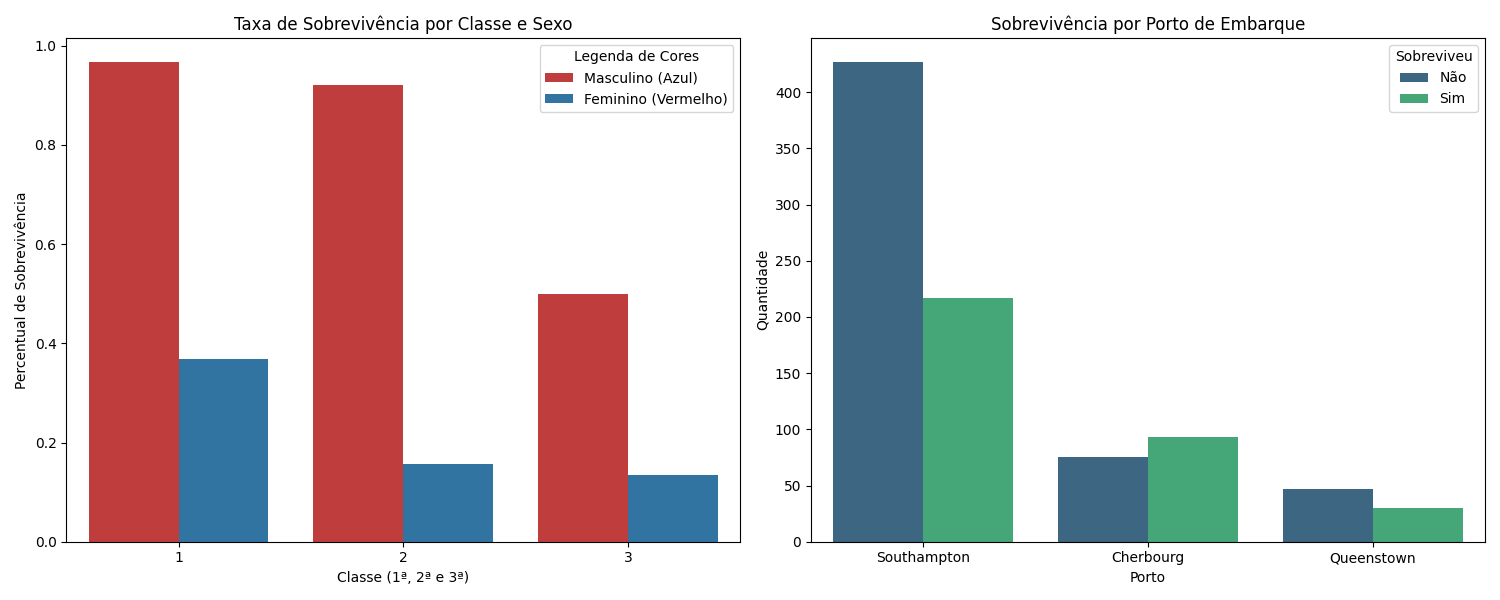
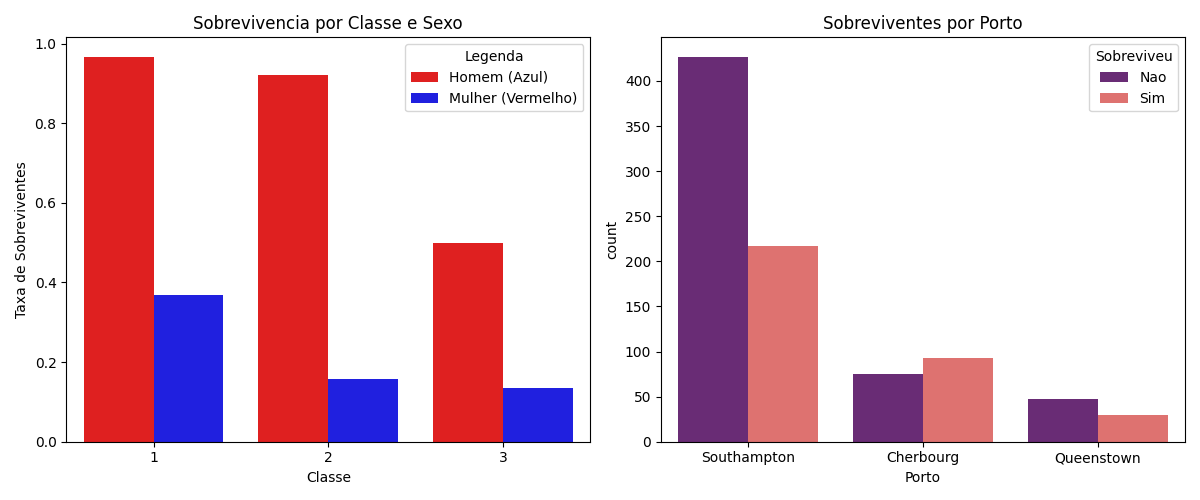
versao2 do desafio

diff --git a/main.py b/main.py
@@ -3,60 +3,67 @@ import matplotlib.pyplot as plt
 import seaborn as sns
 import os
 
-# 1. Caminho do arquivo
-arquivo = 'titanic_dataset.csv'
+# pegando o arquivo que tá na pasta
+arquivo_csv = 'titanic_dataset.csv'
 
-if not os.path.exists(arquivo):
-    print(f"ERRO: O arquivo '{arquivo}' não foi encontrado na pasta!")
-else:
-    # Carregando o dataset
-    dados = pd.read_csv(arquivo)
+# conferir se o arquivo existe antes de dar erro
+if os.path.exists(arquivo_csv):
+    # lendo a tabela do titanic
+    tabela = pd.read_csv(arquivo_csv)
 
-    # 2. Limpeza e Tratamento
-    dados['Age'] = dados['Age'].fillna(dados['Age'].median())
-    dados.drop(columns=['Cabin'], inplace=True, errors='ignore')
-    dados.dropna(subset=['Embarked'], inplace=True)
+    # LIMPEZA DOS DADOS
+    # preenchendo as idades vazias com a mediana
+    valor_do_meio = tabela['Age'].median()
+    tabela['Age'] = tabela['Age'].fillna(valor_do_meio)
 
-    # 3. Análise de Família (SibSp e Parch)
-    # Criando lógica de quem viaja sozinho ou acompanhado
-    dados['Parentes'] = dados['SibSp'] + dados['Parch']
-    dados['Status_Viagem'] = dados['Parentes'].apply(lambda x: 'Sozinho' if x == 0 else 'Com Família')
+    # tirando a coluna da cabine que tem muito erro
+    tabela = tabela.drop(columns=['Cabin'])
 
-    # 4. Gráfico 1: Sobrevivência por Classe e Sexo
-    plt.figure(figsize=(15, 6))
+    # tirando linhas que não tem o porto de embarque
+    tabela.dropna(subset=['Embarked'], inplace=True)
+
+    # TRABALHANDO COM A FAMÍLIA (SibSp e Parch)
+    # vou somar os parentes pra ver quem tava sozinho
+    tabela['Soma_Parentes'] = tabela['SibSp'] + tabela['Parch']
+    
+    # lógica simples pra ver se está sozinho ou não
+    tabela.loc[tabela['Soma_Parentes'] == 0, 'Como_Viajava'] = 'Sozinho'
+    tabela.loc[tabela['Soma_Parentes'] > 0, 'Como_Viajava'] = 'Com Familia'
+
+    # PARTE DOS GRÁFICOS
+    # Gráfico 1 - Sobrevivência por Classe e Sexo
+    plt.figure(figsize=(12, 5))
     plt.subplot(1, 2, 1)
     
-    # Cores: Vermelho para mulheres, Azul para homens
-    cores_br = {"female": "#d62728", "male": "#1f77b4"} 
+    # cores que o professor pediu: vermelho mulher e azul homem
+    cores_lista = {"female": "red", "male": "blue"}
     
-    # ci=None remove as setas/linhas pretas de erro
-    sns.barplot(data=dados, x='Pclass', y='Survived', hue='Sex', 
-                palette=cores_br, errorbar=None)
+    sns.barplot(data=tabela, x='Pclass', y='Survived', hue='Sex', palette=cores_lista, errorbar=None)
     
-    plt.title('Taxa de Sobrevivência por Classe e Sexo')
-    plt.xlabel('Classe (1ª, 2ª e 3ª)')
-    plt.ylabel('Percentual de Sobrevivência')
-    plt.legend(title='Legenda de Cores', labels=['Masculino (Azul)', 'Feminino (Vermelho)'])
+    plt.title('Sobrevivencia por Classe e Sexo')
+    plt.xlabel('Classe')
+    plt.ylabel('Taxa de Sobreviventes')
+    plt.legend(title='Legenda', labels=['Homem (Azul)', 'Mulher (Vermelho)'])
 
-    # 5. Gráfico 2: Porto de Embarque (Nomes Reais)
+    # Gráfico 2 - Porto de Embarque
     plt.subplot(1, 2, 2)
-    mapeamento_portos = {'C': 'Cherbourg', 'Q': 'Queenstown', 'S': 'Southampton'}
-    dados['Porto_Nome'] = dados['Embarked'].map(mapeamento_portos)
-
-    sns.countplot(data=dados, x='Porto_Nome', hue='Survived', palette='viridis')
-    plt.title('Sobrevivência por Porto de Embarque')
-    plt.xlabel('Porto')
-    plt.ylabel('Quantidade')
-    plt.legend(title='Sobreviveu', labels=['Não', 'Sim'])
+    
+    # traduzindo os portos pra ficar mais fácil de ler
+    tabela['Porto'] = tabela['Embarked'].replace({'C': 'Cherbourg', 'Q': 'Queenstown', 'S': 'Southampton'})
+    
+    sns.countplot(data=tabela, x='Porto', hue='Survived', palette='magma')
+    plt.title('Sobreviventes por Porto')
+    plt.legend(title='Sobreviveu', labels=['Nao', 'Sim'])
 
     plt.tight_layout()
     plt.show()
 
-    # 6. Gráfico 3: Análise de Parentes (Sozinho vs Família)
-    plt.figure(figsize=(8, 5))
-    sns.barplot(data=dados, x='Status_Viagem', y='Survived', palette='Set2', errorbar=None)
-    plt.title('Influência de Parentes na Sobrevivência')
-    plt.ylabel('Taxa de Sobrevivência')
+    # Gráfico 3 - Família
+    plt.figure(figsize=(7, 4))
+    sns.barplot(data=tabela, x='Como_Viajava', y='Survived', errorbar=None)
+    plt.title('Quem sobreviveu mais: Sozinho ou com Familia?')
     plt.show()
 
-    print("\nExecução Finalizada com Sucesso.")
+    print("Terminei de rodar tudo!")
+else:
+    print("O arquivo nao foi encontrado, coloque ele na mesma pasta do script")
